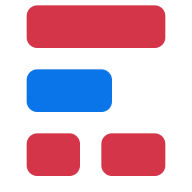
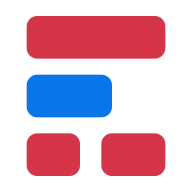
Updated the-rack images to make them more centered and added a <base> tag in the head of a .html files

diff --git a/pages/calculator.html b/pages/calculator.html
@@ -6,6 +6,7 @@
   </style>
     <meta charset="UTF-8">
     <meta name="viewport" content="width=device-width, initial-scale=1.0">
+    <base href="/aiden-hill-ar.github.io/">
     <link rel="manifest" href="../manifest.json">
     <link rel="shortcut icon" href="../svg/calculator.svg">
     <link rel="preconnect" href="https://fonts.googleapis.com">

diff --git a/index.html b/index.html
@@ -6,6 +6,7 @@
    </style>
    <meta charset="UTF-8">
    <meta name="viewport" content="width=device-width, initial-scale=1.0">
+   <base href="/aiden-hill-ar.github.io/">
    <link rel="manifest" href="./manifest.json">
    <link rel="shortcut icon" href="./svg/the-rack.svg">
    <link rel="stylesheet" href="./styles/the-rack.css">

diff --git a/pages/tally.html b/pages/tally.html
@@ -6,6 +6,7 @@
    </style>
    <meta charset="UTF-8">
    <meta name="viewport" content="width=device-width, initial-scale=1.0">
+   <base href="/aiden-hill-ar.github.io/">
    <link rel="manifest" href="../manifest.json">
    <link rel="stylesheet" href="../styles/tally.css">
    <link rel="stylesheet" href="../styles/nav.css">
